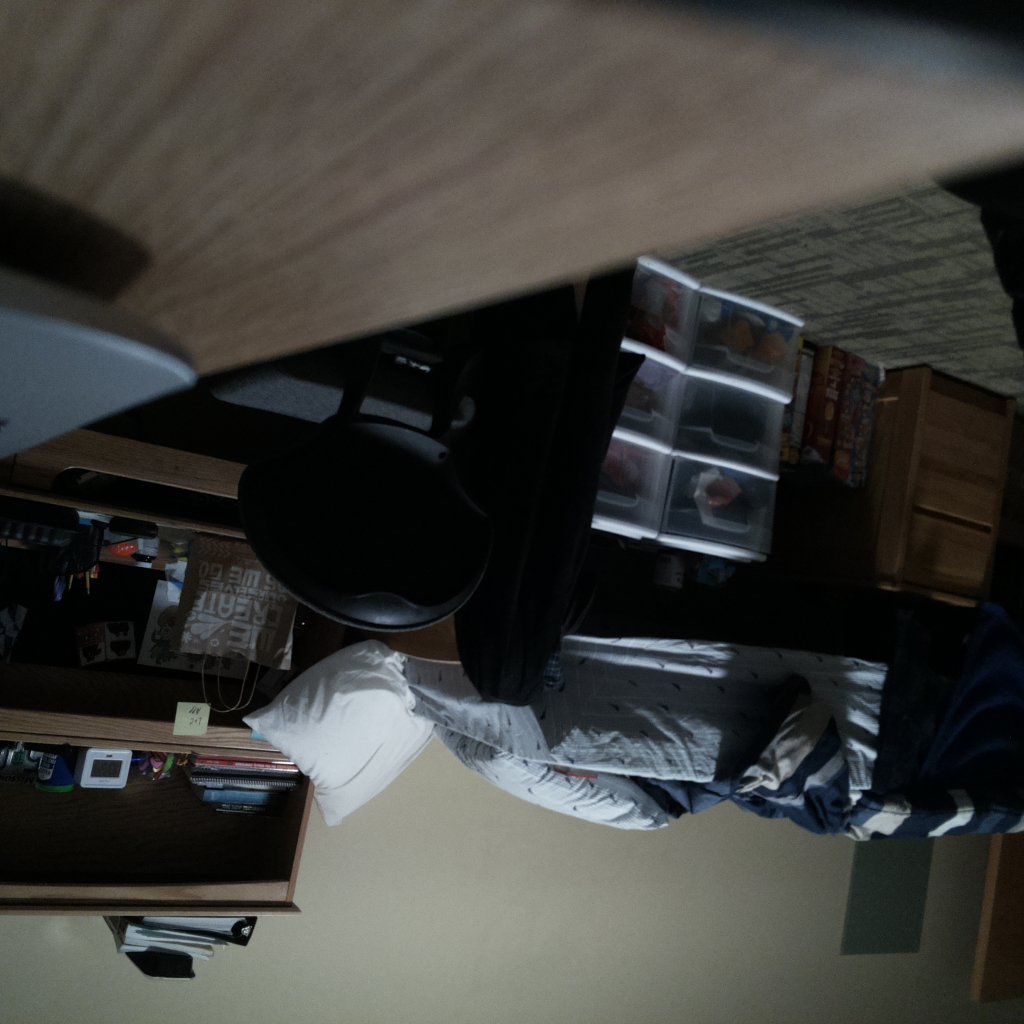
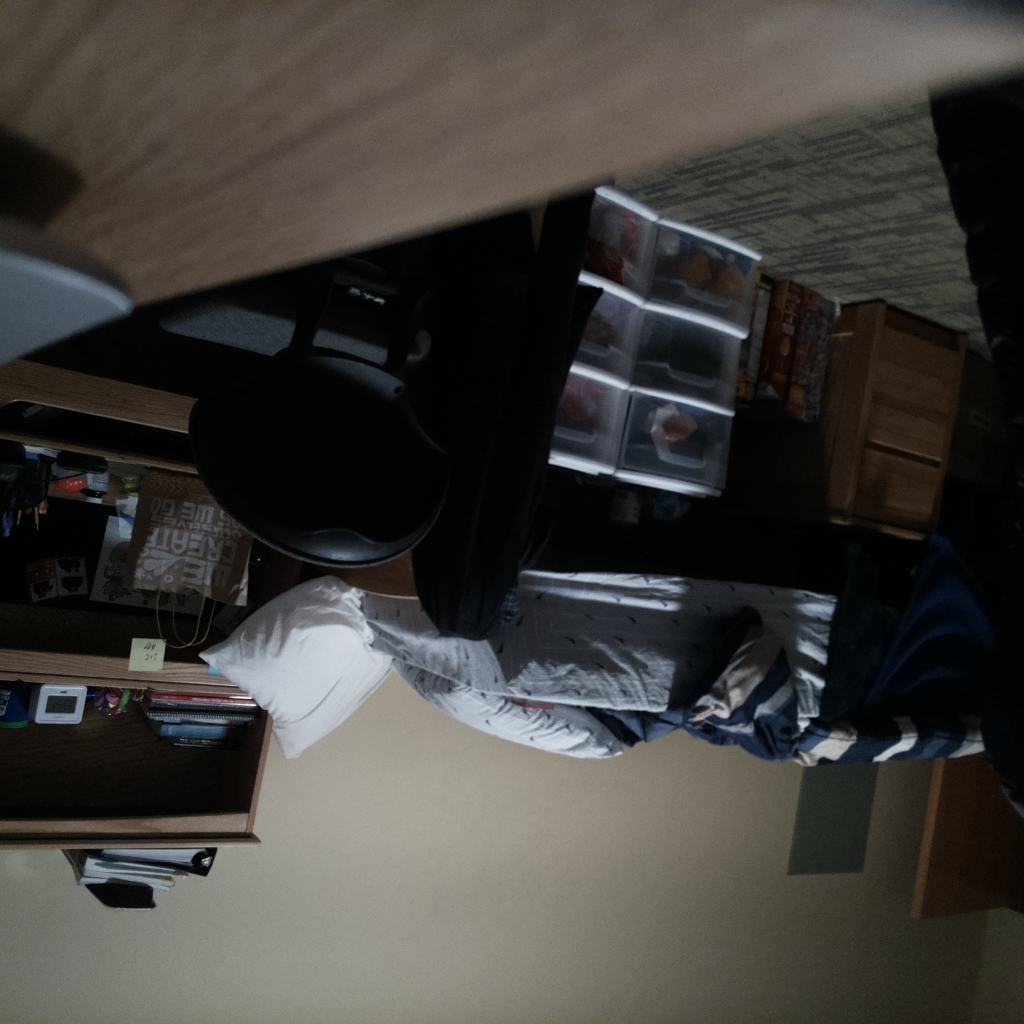
more imgs

diff --git a/compareImgs.py b/compareImgs.py
@@ -6,13 +6,13 @@ import cv2 as cv
 camera = PiCamera()
 camera.resolution = (1024,1024)
 camera.iso = 200
-camera.shutter_speed = camera.exposure_speed
-sleep(2)
-camera.exposure_mode = 'off'
-gain = camera.awb_gains
-sleep(2)
-camera.awb_mode = 'off'
-camera.awb_gains = gain
+#camera.shutter_speed = camera.exposure_speed
+#sleep(2)
+#camera.exposure_mode = 'off'
+#gain = camera.awb_gains
+#sleep(2)
+#camera.awb_mode = 'off'
+#camera.awb_gains = gain
 
 cap1 = camera.capture('images/img1.jpg')
 sleep(5)
